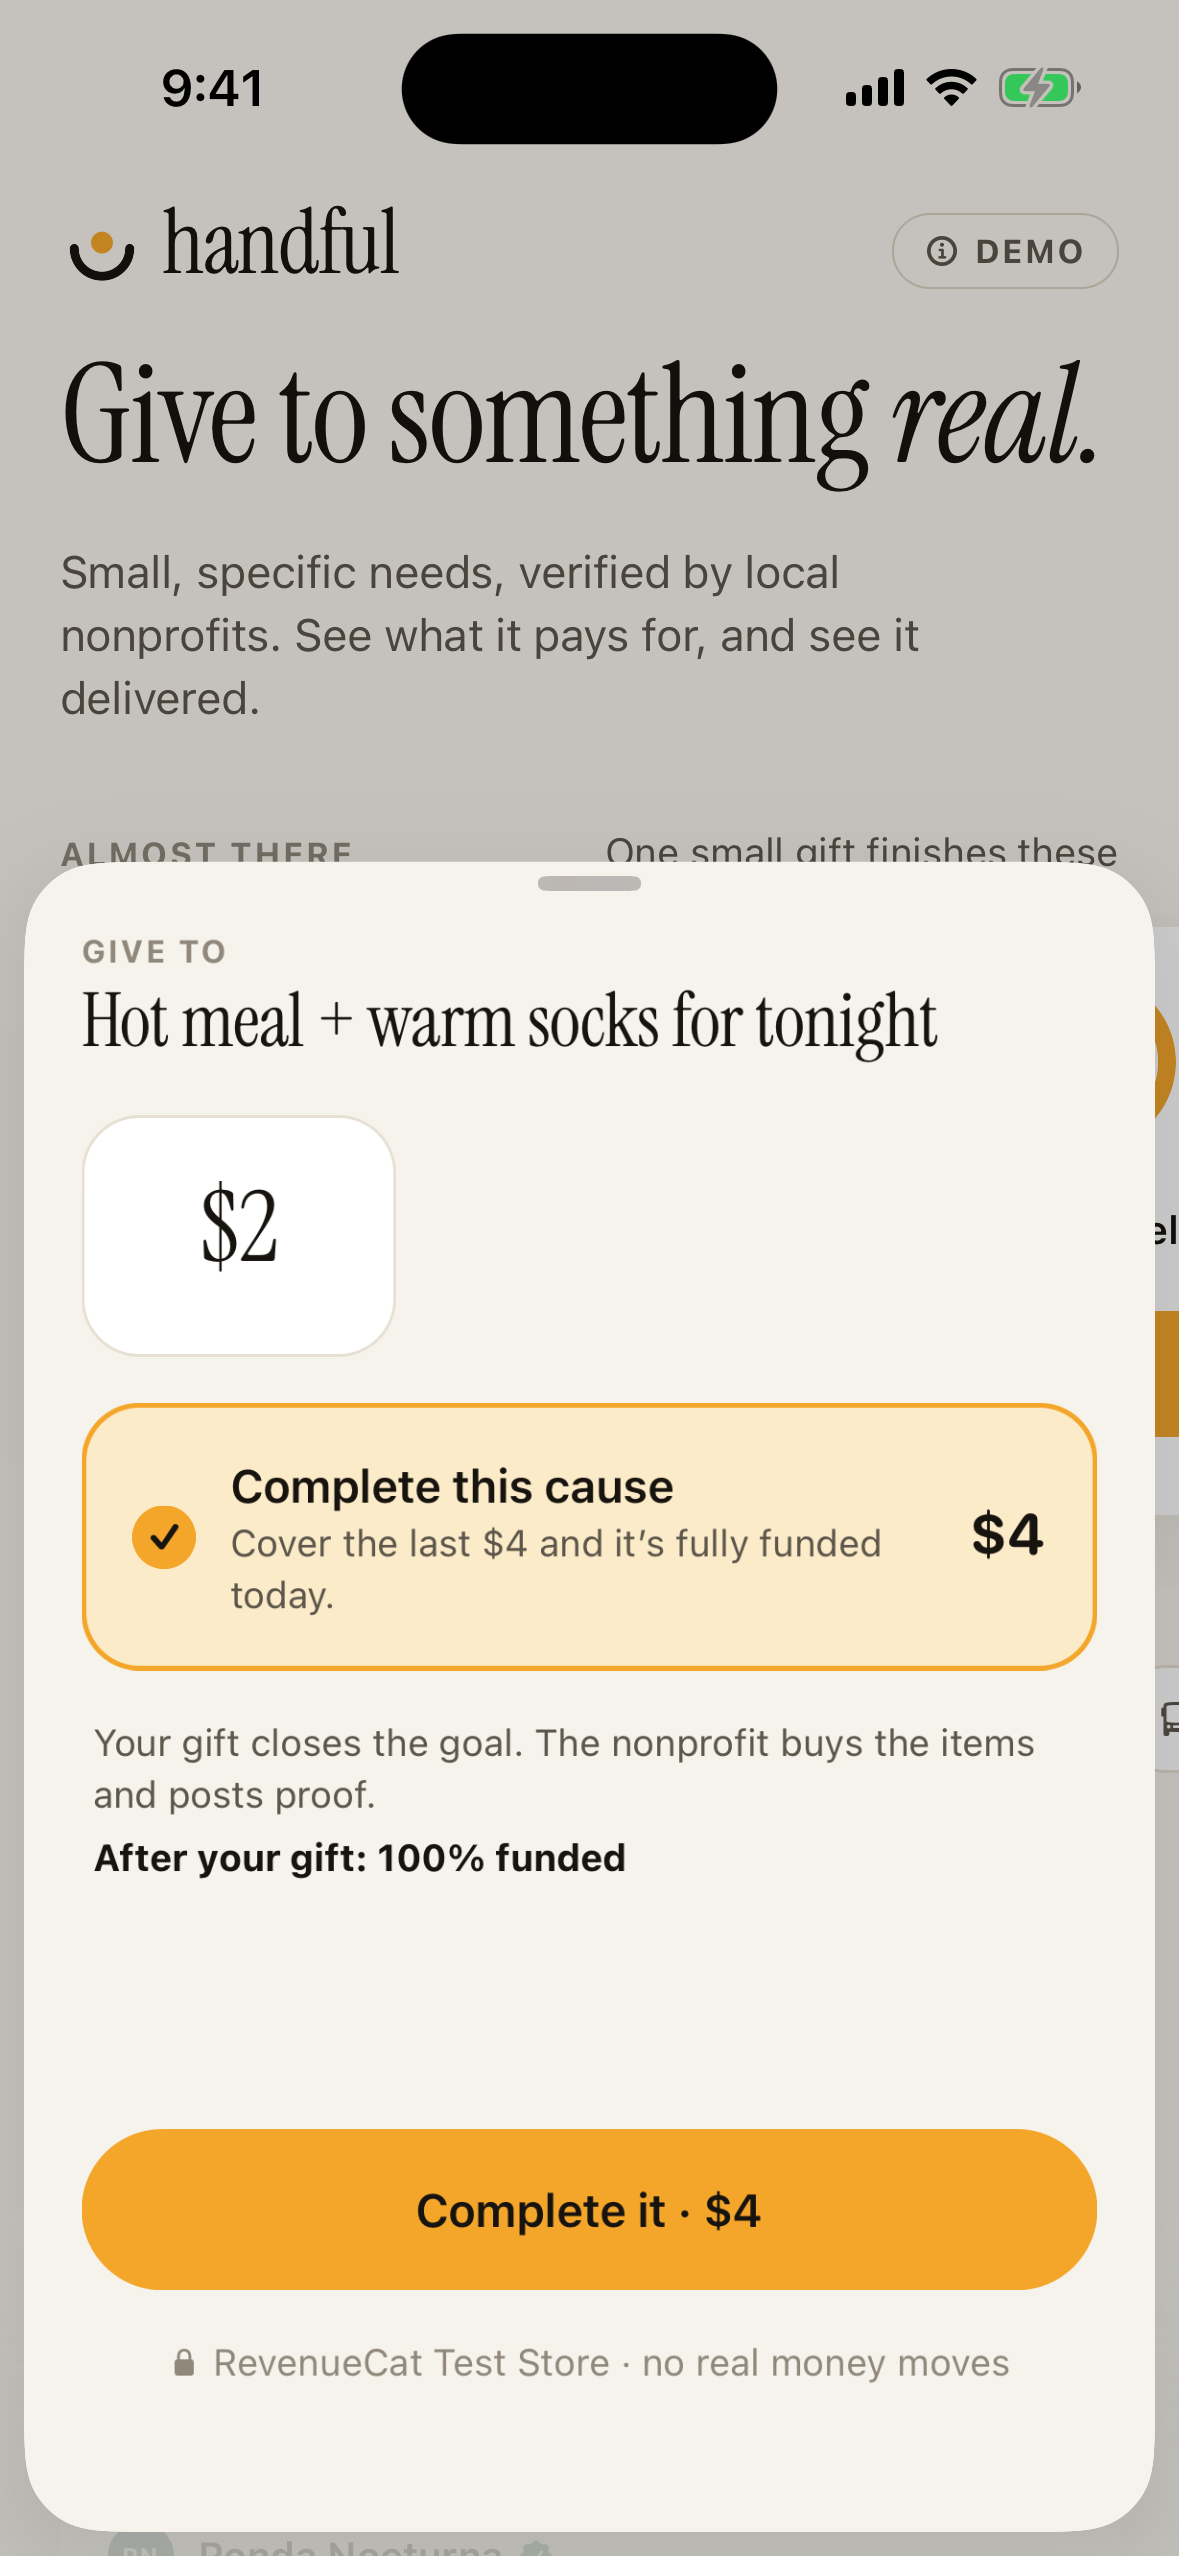
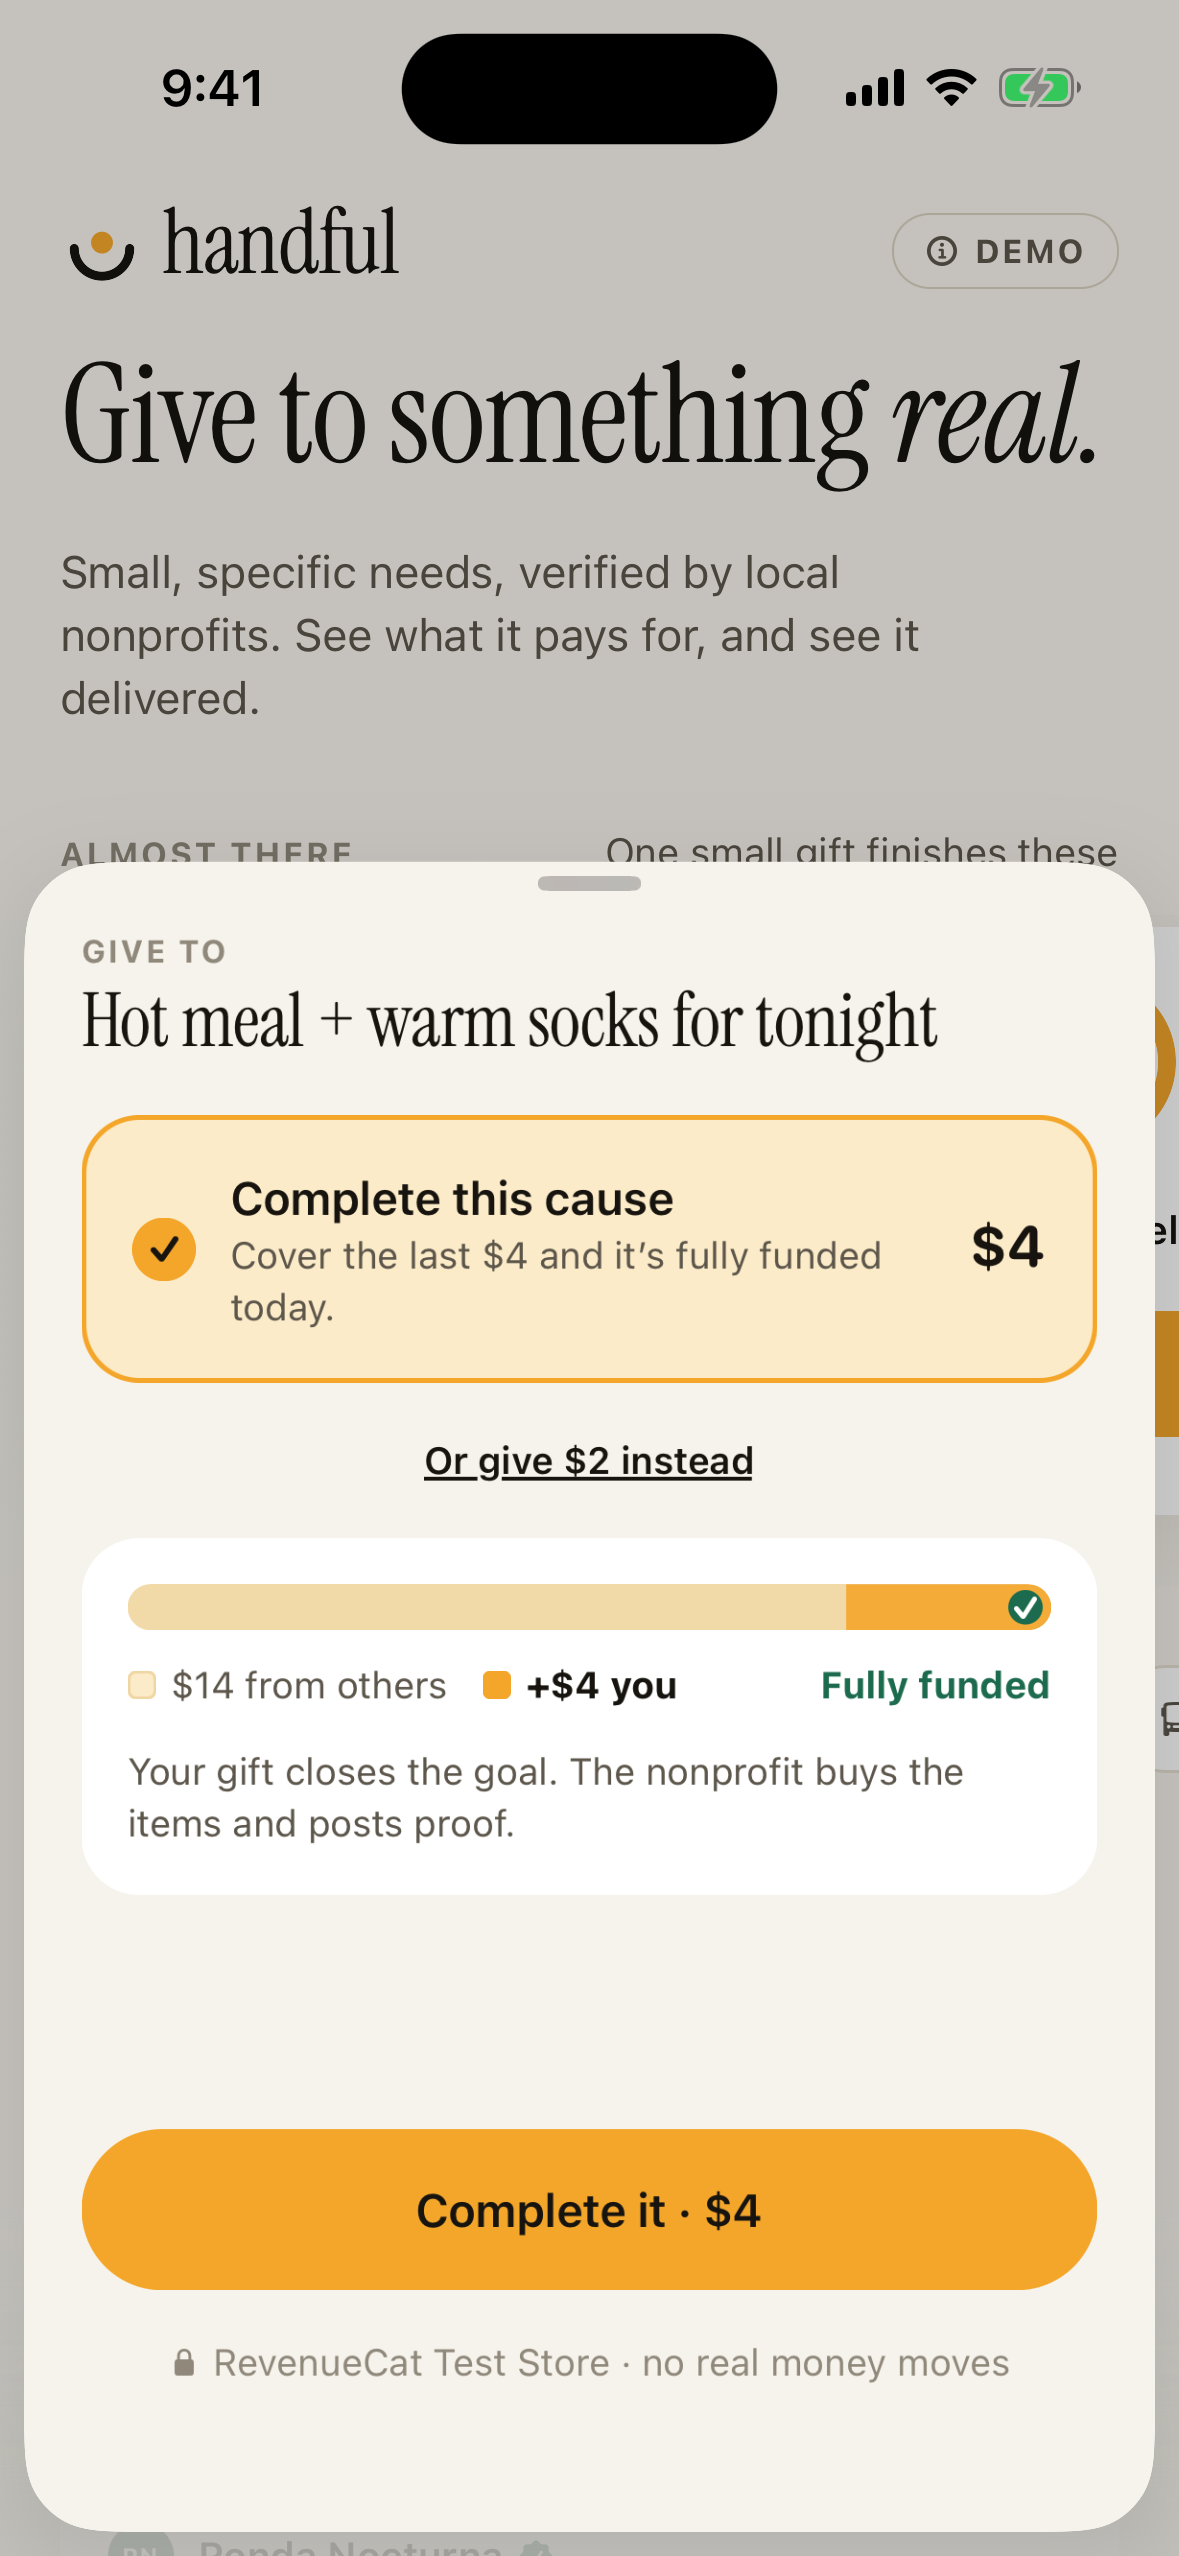
Give sheet: single alternative amount as inline link; refreshed screenshots

Changed region(s): [[0.0611, 0.4327, 0.9466, 0.7418]]

diff --git a/src/app/give/[id].tsx b/src/app/give/[id].tsx
@@ -80,11 +80,13 @@ export default function GiveSheet() {
         </Txt>
       </View>
 
-      <View style={styles.options}>
-        {options.map((p) => (
-          <Amount key={p} value={p} active={amount === p} onPress={() => setAmount(p)} />
-        ))}
-      </View>
+      {options.length > 1 ? (
+        <View style={styles.options}>
+          {options.map((p) => (
+            <Amount key={p} value={p} active={amount === p} onPress={() => setAmount(p)} />
+          ))}
+        </View>
+      ) : null}
 
       {canComplete ? (
         <Pressable
@@ -104,6 +106,20 @@ export default function GiveSheet() {
           </View>
           <Txt variant="number" style={{ fontSize: 20 }}>
             {money(left)}
+          </Txt>
+        </Pressable>
+      ) : null}
+
+      {options.length === 1 ? (
+        <Pressable
+          onPress={() => {
+            tap();
+            setAmount(amount === options[0] ? left : options[0]);
+          }}
+          accessibilityRole="button"
+          style={styles.altLink}>
+          <Txt variant="caption" color={color.ink} style={{ fontWeight: '600', textDecorationLine: 'underline' }}>
+            {amount === options[0] ? `Complete it with ${money(left)} instead` : `Or give ${money(options[0])} instead`}
           </Txt>
         </Pressable>
       ) : null}
@@ -203,6 +219,7 @@ const styles = StyleSheet.create({
     justifyContent: 'center',
   },
   radioOn: { backgroundColor: color.sun, borderColor: color.sun },
+  altLink: { alignSelf: 'center', paddingVertical: 2 },
   meterCard: { gap: 12, padding: space.md, borderRadius: radius.lg, backgroundColor: color.card },
   error: {
     flexDirection: 'row',
